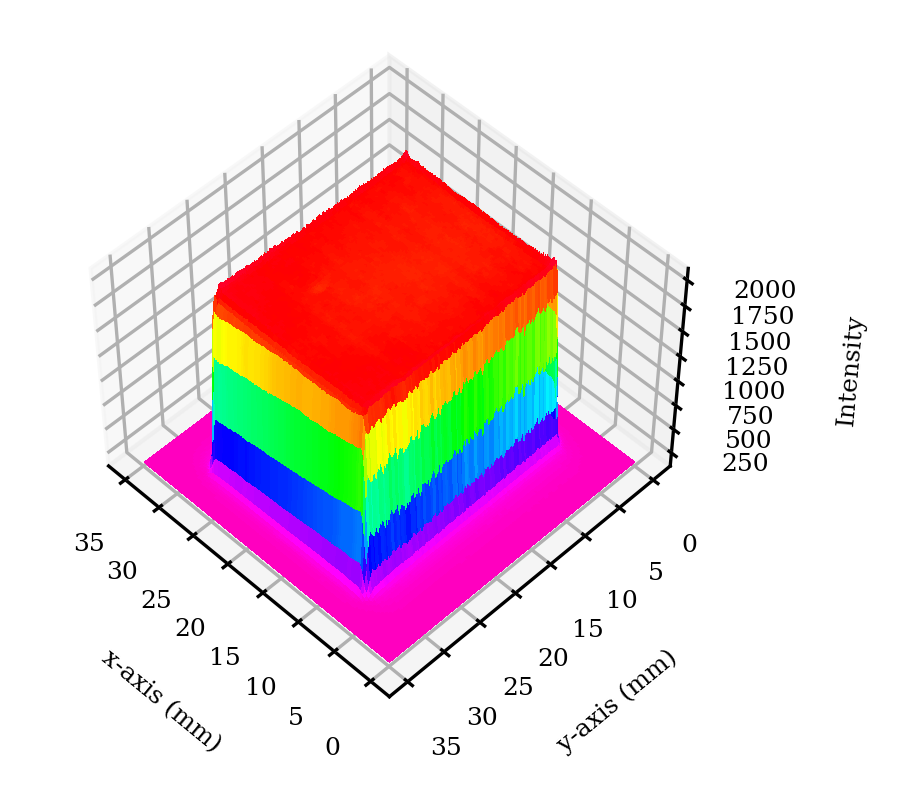
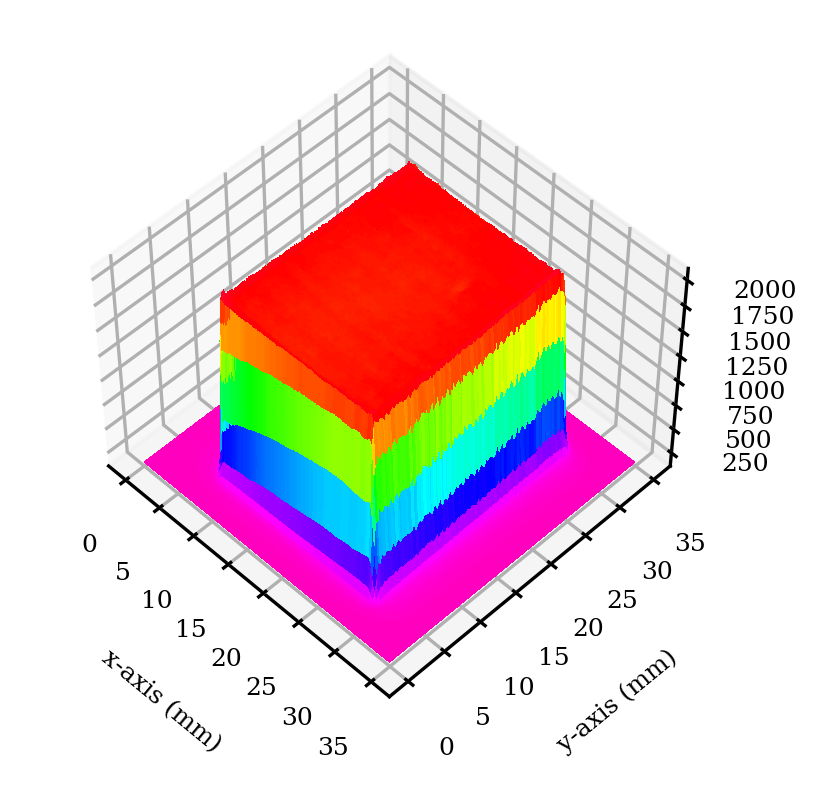
Updated docs
- updated docstring in plot.py
- updated example image 3D heat map 1

diff --git a/src/beamprofiler/utils/plot.py b/src/beamprofiler/utils/plot.py
@@ -319,7 +319,7 @@ def heat_map_3d(path, fileName, beam, **kwargs):
     elev : float
         elevation viewing angle. The default is 50.
     azim : float
-        azimuthal viewing angle. The default is 135.
+        azimuthal viewing angle. The default is 315.
     dist : float
         distance from the plot. The default is 11.
     fmt : str
